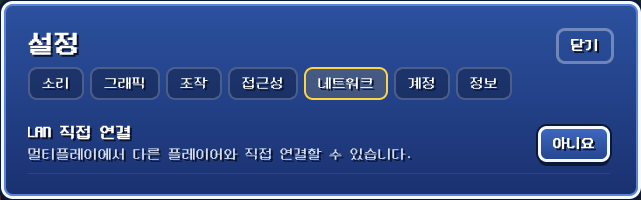
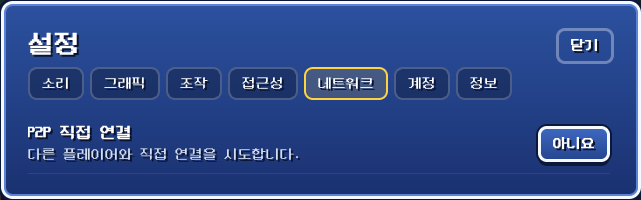
fix: 직접 연결 옵션을 P2P로 명확히 표기

Changed region(s): [[0.0312, 0.72, 0.6552, 0.81], [0.0312, 0.63, 0.0936, 0.69]]

diff --git a/site/index.html b/site/index.html
@@ -71,7 +71,7 @@
     <details>
       <summary>같은 LAN에서 멀티플레이 연결이 느린가요?</summary>
       <p>Windows 방화벽이 Chrome UDP 수신을 막는 경우, <a href="downloads/pokesurvivor-lan-helper.zip" download>Windows LAN 도구</a>로 신뢰하는 CIDR을 허용할 수 있습니다. 압축 해제 후 README를 읽고 관리자 권한으로 실행하세요. 추천 대역과 허용 범위를 확인한 뒤 YES를 입력해야 적용됩니다.</p>
-      <p>모든 네트워크 프로필에 남는 Chrome 규칙이며, Wi-Fi 이름이나 게임 사이트에 한정되지 않습니다. 양쪽 PC에서 설정 후 게임의 <strong>설정 → 네트워크 → LAN 직접 연결</strong>을 켜고 재접속하세요. 도구의 2번 메뉴에서 CIDR 규칙을 삭제할 수 있습니다.</p>
+      <p>모든 네트워크 프로필에 남는 Chrome 규칙이며, Wi-Fi 이름이나 게임 사이트에 한정되지 않습니다. 양쪽 PC에서 설정 후 게임의 <strong>설정 → 네트워크 → P2P 직접 연결</strong>을 켜고 재접속하세요. 도구의 2번 메뉴에서 CIDR 규칙을 삭제할 수 있습니다.</p>
     </details>
     <details class="preview">
       <summary>한국어 적용 화면 보기</summary>

diff --git a/site/en/index.html b/site/en/index.html
@@ -71,7 +71,7 @@
     <details>
       <summary>Slow multiplayer on the same LAN?</summary>
       <p>If Windows blocks inbound Chrome UDP, the optional <a href="../downloads/pokesurvivor-lan-helper.zip" download>Windows LAN helper</a> can allow a trusted CIDR. Extract it, read the README, and run as administrator. Review the suggested range and rule scope, then type YES to apply.</p>
-      <p>The persistent Chrome rule applies to all network profiles, not a specific Wi-Fi name or game site. On both PCs enable <strong>Settings → Network → Direct LAN connection</strong> in the game and rejoin. Choose menu option 2 in the helper to remove its CIDR rules.</p>
+      <p>The persistent Chrome rule applies to all network profiles, not a specific Wi-Fi name or game site. On both PCs enable <strong>Settings → Network → Direct P2P connection</strong> in the game and rejoin. Choose menu option 2 in the helper to remove its CIDR rules.</p>
     </details>
     <details class="preview">
       <summary>Preview the Korean interface</summary>

diff --git a/extension/storage.js b/extension/storage.js
@@ -124,10 +124,10 @@
       });
       body.replaceChildren(section);
     }
-    section.querySelector('#psko-lan-label').textContent = ko ? 'LAN 직접 연결' : 'Direct LAN connection';
+    section.querySelector('#psko-lan-label').textContent = ko ? 'P2P 직접 연결' : 'Direct P2P connection';
     section.querySelector('#psko-lan-description').textContent = ko
-      ? '멀티플레이에서 다른 플레이어와 직접 연결할 수 있습니다.'
-      : 'Allow direct multiplayer connections with other players.';
+      ? '다른 플레이어와 직접 연결을 시도합니다.'
+      : 'Try connecting directly to other players.';
     const toggle = section.querySelector('#psko-lan-direct');
     toggle.setAttribute('aria-checked', String(network.lanDirect));
     toggle.textContent = ko ? (network.lanDirect ? '예' : '아니요') : (network.lanDirect ? 'Yes' : 'No');

diff --git a/README.md b/README.md
@@ -37,7 +37,7 @@ ZIP 설치본에서 스토어 설치본으로 옮길 때는 기존 확장을 끄
 | 내 이펙트·파티원 이펙트 투명도 | 게임 설정 → 그래픽 |
 | 근접 자동 조준 임시 보정 | 게임 설정 → 조작 |
 | 보유 포켓몬 티어 | 확장 프로그램 팝업 |
-| LAN 직접 연결 | 게임 설정 → 네트워크 |
+| P2P 직접 연결 | 게임 설정 → 네트워크 |
 
 ## 언어 바꾸기
 
@@ -78,11 +78,11 @@ ZIP 설치본에서 스토어 설치본으로 옮길 때는 기존 확장을 끄
 
 </details>
 
-## LAN 직접 연결
+## P2P 직접 연결
 
-게임 **설정 → 네트워크 → LAN 직접 연결**에서 켜고 끌 수 있습니다. 기본값은 꺼짐이며, 켜면 멀티플레이에서 다른 플레이어와 직접 연결할 수 있습니다.
+게임 **설정 → 네트워크 → P2P 직접 연결**에서 켜고 끌 수 있습니다. 기본값은 꺼짐이며, 켜면 다른 플레이어와 직접 연결을 시도합니다.
 
-<img src="docs/assets/network-korean.png" width="640" alt="설정의 네트워크 탭과 LAN 직접 연결 스위치">
+<img src="docs/assets/network-korean.png" width="640" alt="설정의 네트워크 탭과 P2P 직접 연결 스위치">
 
 게임이 제공하는 중계 연결(TURN)도 사용될 수 있으므로 직결이나 지연 시간 감소를 보장하지는 않습니다. VPN·방화벽·공유기 설정에 따라 직접 연결이 제한될 수 있습니다.
 

diff --git a/README.en.md b/README.en.md
@@ -37,7 +37,7 @@ When moving to the store version, disable the old unpacked extension. Do not run
 | Separate player and party effect opacity | Settings → Graphics |
 | Temporary melee targeting fix | Settings → Controls |
 | Owned Pokémon tiers | Extension popup |
-| LAN direct connection | Settings → Network |
+| P2P direct connection | Settings → Network |
 
 ## Change language
 
@@ -78,11 +78,11 @@ Choose the language and adjust player and party effects in the game's graphics s
 
 </details>
 
-## LAN direct connection
+## P2P direct connection
 
-Turn it on or off under **Settings → Network → Direct LAN connection** in the game. It is off by default. Enabling it allows direct connections to other players in multiplayer.
+Turn it on or off under **Settings → Network → Direct P2P connection** in the game. It is off by default. Enabling it allows direct connections to other players in multiplayer.
 
-<img src="docs/assets/network-korean.png" width="640" alt="Network settings with the LAN direct connection switch">
+<img src="docs/assets/network-korean.png" width="640" alt="Network settings with the P2P direct connection switch">
 
 The game may still use its relay connections (TURN), so this does not guarantee a direct connection or lower latency. VPNs, firewalls, and router settings can prevent direct connections.
 
